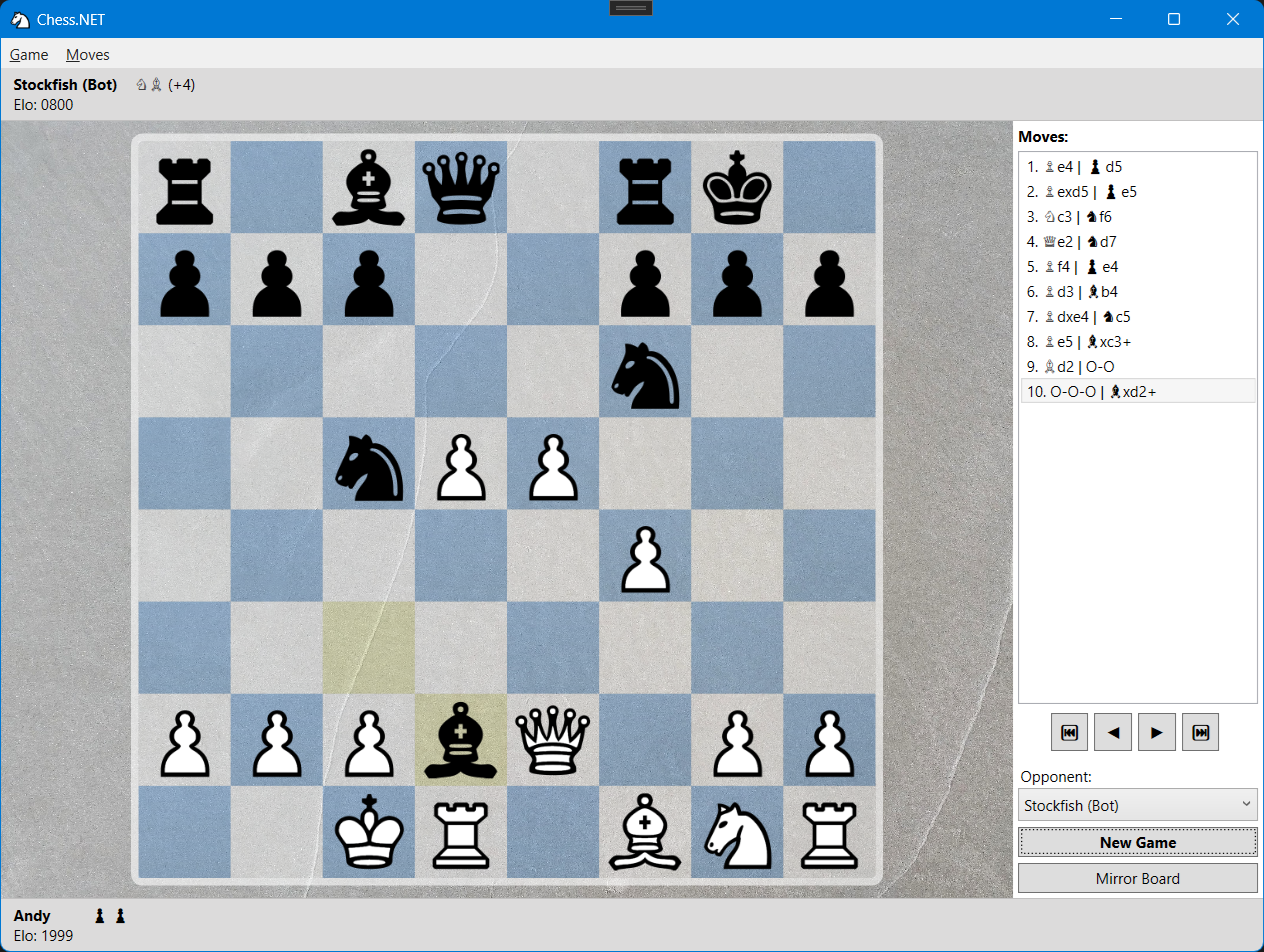
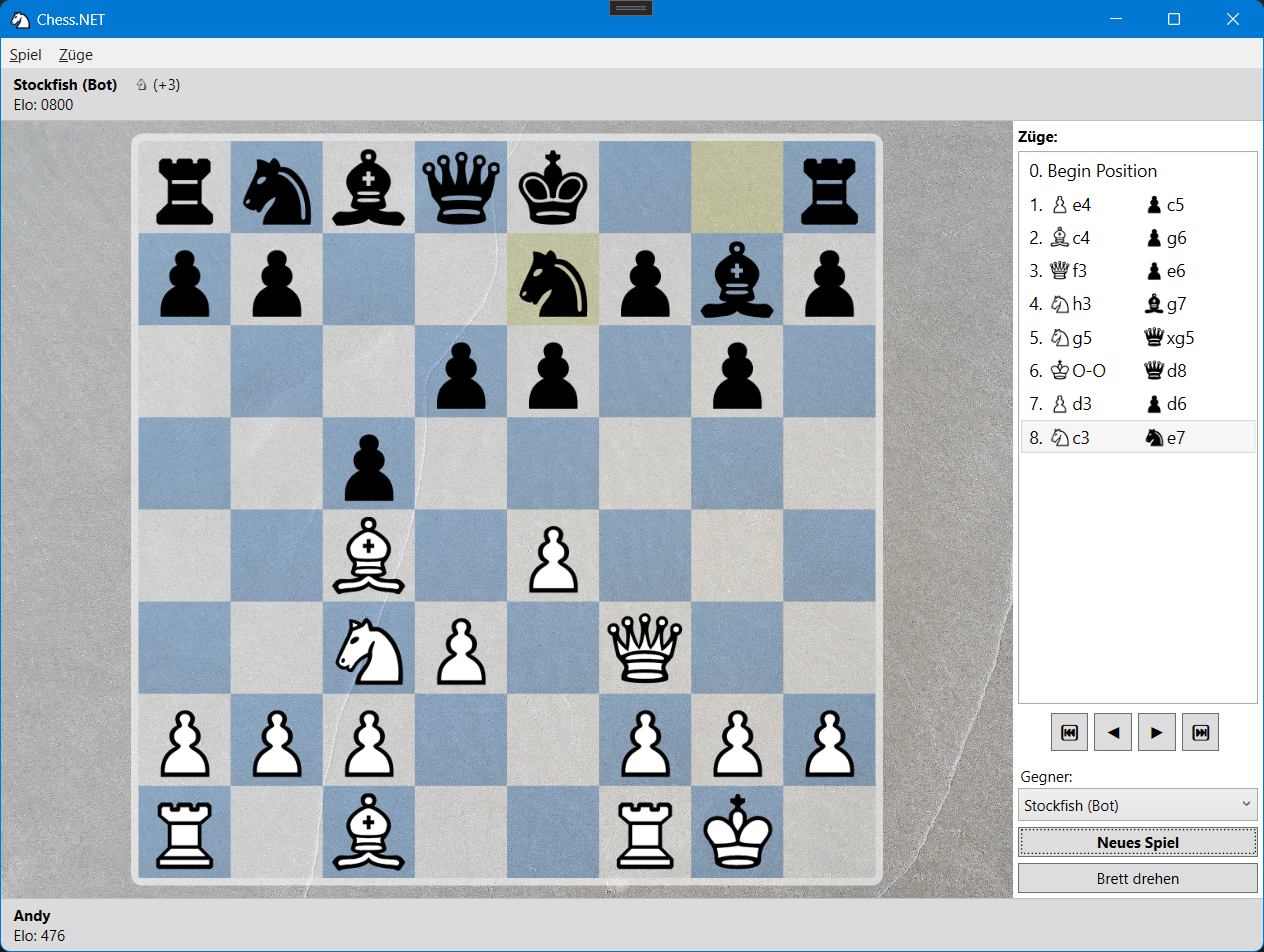
feat: Reworked MoveNotation-ListBox (w/own UserControl)

diff --git a/Chess.NET/Controls/MoveNotationDisplay.xaml b/Chess.NET/Controls/MoveNotationDisplay.xaml
@@ -1,0 +1,37 @@
+<UserControl x:Class="Chess.NET.Controls.MoveNotationDisplay"
+             xmlns="http://schemas.microsoft.com/winfx/2006/xaml/presentation"
+             xmlns:x="http://schemas.microsoft.com/winfx/2006/xaml"
+             xmlns:mc="http://schemas.openxmlformats.org/markup-compatibility/2006" 
+             xmlns:d="http://schemas.microsoft.com/expression/blend/2008" 
+             xmlns:local="clr-namespace:Chess.NET.Controls"
+             mc:Ignorable="d" 
+             d:DesignHeight="50" d:DesignWidth="140">
+    <Grid>
+        <Grid.Resources>
+            <local:MoveToImageConverter x:Key="moveToImageConverter" />
+            <local:MoveToTextConverter x:Key="noveToTextConverter" />
+            <local:MoveCountConverter x:Key="moveCountConverter" />
+        </Grid.Resources>
+        <Grid.ColumnDefinitions>
+            <ColumnDefinition Width="*" />
+            <ColumnDefinition Width="*" />
+        </Grid.ColumnDefinitions>
+
+        <StackPanel x:Name="PanelBegin" Visibility="Collapsed" Background="Transparent" MouseDown="PanelBegin_MouseDown" Grid.Column="0" Grid.ColumnSpan="2" Cursor="Hand" Orientation="Horizontal">
+            <TextBlock Text="0. Begin Position" VerticalAlignment="Center" Margin="2" FontSize="14" />
+        </StackPanel>
+        
+        <StackPanel x:Name="PanelMove1" Background="Transparent" MouseDown="PanelMove1_MouseDown" Cursor="Hand" Orientation="Horizontal" VerticalAlignment="Center">
+            <TextBlock VerticalAlignment="Center" Margin="2" FontSize="14">
+                <Run Text="{Binding Count, Converter={StaticResource moveCountConverter}}" /><Run Text=". " />
+            </TextBlock>
+            <Image Source="{Binding ., Converter={StaticResource moveToImageConverter}}" Width="16" Height="16" RenderOptions.BitmapScalingMode="Fant" />
+            <TextBlock Text="{Binding ., Converter={StaticResource noveToTextConverter}}" VerticalAlignment="Center" Margin="2" FontSize="14" />
+        </StackPanel>
+
+        <StackPanel x:Name="PanelMove2" Background="Transparent" MouseDown="PanelMove2_MouseDown" Grid.Column="1" Cursor="Hand" Margin="5,0,0,0" Orientation="Horizontal" VerticalAlignment="Center">
+            <Image Source="{Binding ., Converter={StaticResource moveToImageConverter}}" Width="16" Height="16" RenderOptions.BitmapScalingMode="Fant" />
+            <TextBlock Text="{Binding ., Converter={StaticResource noveToTextConverter}}" VerticalAlignment="Center" Margin="2" FontSize="14" />
+        </StackPanel>
+    </Grid>
+</UserControl>

diff --git a/Chess.NET/MainWindow.xaml b/Chess.NET/MainWindow.xaml
@@ -88,7 +88,7 @@
                     </Grid.RowDefinitions>
                     
                     <TextBlock Text="{x:Static res:Resources.strMoves}" FontWeight="Bold" />
-                    <ListBox x:Name="ListMoves" MouseDoubleClick="ListMoves_MouseDoubleClick" Margin="0,4,0,0" Grid.Row="1" />
+                    <ListBox x:Name="ListMoves" Margin="0,4,0,0" Grid.Row="1" HorizontalContentAlignment="Stretch"  />
                     
                     <StackPanel Grid.Row="2" Margin="0,5,0,0" Orientation="Horizontal" HorizontalAlignment="Center">
                         <Button x:Name="ButtonJumpToStart" Click="ButtonJumpToStart_Click" Content="⏮" FontWeight="Bold" ToolTip="{x:Static res:Resources.strJumpToStartTooltip}" Padding="3" Width="30" Margin="0,2,5,2" />

diff --git a/Chess.NET/Controls/Dialogs/PuzzleDialog.xaml b/Chess.NET/Controls/Dialogs/PuzzleDialog.xaml
@@ -31,7 +31,7 @@
         <StackPanel x:Name="PanelPuzzleSolved" Visibility="Collapsed" Width="200" Grid.Column="1" Margin="2,10,2,2">
             <TextBlock Text="Puzzle solved!" Foreground="Green" FontWeight="Bold" FontSize="22"  HorizontalAlignment="Center" />
             <TextBlock Text="Moves:" Margin="5,2" />
-            <ListBox Height="200" />
+            <ListBox x:Name="ListMoves" Height="200" HorizontalContentAlignment="Stretch" />
             <Button x:Name="ButtonReplay" Click="ButtonReplay_Click" Content="Replay" Margin="2" FontWeight="Bold" Padding="3" />
         </StackPanel>
 

diff --git a/Chess.NET/Controls/MoveNotationDisplay.xaml.cs b/Chess.NET/Controls/MoveNotationDisplay.xaml.cs
@@ -1,0 +1,142 @@
+using Chess.NET.Model;
+using System.ComponentModel;
+using System.Globalization;
+using System.Windows.Controls;
+using System.Windows.Data;
+
+namespace Chess.NET.Controls
+{
+    /// <summary>
+    /// Interaktionslogik für MoveNotationDisplay.xaml
+    /// </summary>
+    public partial class MoveNotationDisplay : UserControl, INotifyPropertyChanged
+    {
+        public event PropertyChangedEventHandler? PropertyChanged;
+
+        private MoveNotation move1 = null!, move2 = null!;
+
+        public delegate void onJumpToMove(int index);
+        public event onJumpToMove? OnJumpToMove;
+
+        public MoveNotation Move1
+        {
+            get => move1;
+            set
+            {
+                if (value != move1)
+                {
+                    move1 = value;
+                    PanelMove1.DataContext = Move1;
+                    PropertyChanged?.Invoke(this, new PropertyChangedEventArgs(nameof(Move1)));
+                }
+            }
+        }
+
+        public MoveNotation Move2
+        {
+            get => move2;
+            set
+            {
+                if (value != move2)
+                {
+                    move2 = value;
+                    PanelMove2.DataContext = Move2;
+                    PropertyChanged?.Invoke(this, new PropertyChangedEventArgs(nameof(Move2)));
+
+                    if (move2 != null)
+                        PanelMove2.Visibility = System.Windows.Visibility.Visible;
+                }
+            }
+        }
+
+        public MoveNotationDisplay(bool isStart = false)
+        {
+            InitializeComponent();
+            PanelMove1.DataContext = Move1;
+            PanelMove2.DataContext = Move2;
+
+            PanelMove2.Visibility = System.Windows.Visibility.Collapsed;
+            if (isStart)
+            {
+                PanelMove1.Visibility = System.Windows.Visibility.Collapsed;
+                PanelBegin.Visibility = System.Windows.Visibility.Visible;
+            }
+        }
+
+        private void PanelMove1_MouseDown(object sender, System.Windows.Input.MouseButtonEventArgs e)
+        {
+            if (Move1 == null)
+                return;
+
+            if (e.LeftButton == System.Windows.Input.MouseButtonState.Pressed)
+                OnJumpToMove?.Invoke(Move1.Count - 1);
+        }
+
+        private void PanelBegin_MouseDown(object sender, System.Windows.Input.MouseButtonEventArgs e)
+        {
+            if (e.LeftButton == System.Windows.Input.MouseButtonState.Pressed)
+                OnJumpToMove?.Invoke(-1);
+        }
+
+        private void PanelMove2_MouseDown(object sender, System.Windows.Input.MouseButtonEventArgs e)
+        {
+            if (Move2 == null)
+                return;
+
+            if (e.LeftButton == System.Windows.Input.MouseButtonState.Pressed)
+                OnJumpToMove?.Invoke(Move2.Count - 1);
+        }
+    }
+
+    #region Converter
+
+    public class MoveToImageConverter : IValueConverter
+    {
+        public object Convert(object value, Type targetType, object parameter, CultureInfo culture)
+        {
+            if (value is MoveNotation mv)
+                return mv.Piece.Type.ToBitmap(mv.Piece.Color);
+
+            return null!;
+        }
+
+        public object ConvertBack(object value, Type targetType, object parameter, CultureInfo culture)
+        {
+            throw new NotImplementedException();
+        }
+    }
+
+    public class MoveToTextConverter : IValueConverter
+    {
+        public object Convert(object value, Type targetType, object parameter, CultureInfo culture)
+        {
+            if (value is MoveNotation mv)
+                return mv.FormatMove(false, true);
+
+            return string.Empty;
+        }
+
+        public object ConvertBack(object value, Type targetType, object parameter, CultureInfo culture)
+        {
+            throw new NotImplementedException();
+        }
+    }
+
+    public class MoveCountConverter : IValueConverter
+    {
+        public object Convert(object value, Type targetType, object parameter, CultureInfo culture)
+        {
+            if (value is int n)
+                return (n + 1) / 2;
+
+            return 0;
+        }
+
+        public object ConvertBack(object value, Type targetType, object parameter, CultureInfo culture)
+        {
+            throw new NotImplementedException();
+        }
+    }
+
+    #endregion
+}

diff --git a/Chess.NET/MainWindow.xaml.cs b/Chess.NET/MainWindow.xaml.cs
@@ -13,6 +13,7 @@ namespace Chess.NET
     /// </summary>
     public partial class MainWindow : Window
     {
+        private MoveNotationDisplay currentMoveNotationDisplay = null!;
         private bool isMirrored = false;
         private IChessBot? opponent = null;
 
@@ -45,6 +46,11 @@ namespace Chess.NET
             NewGameCommand = new RelayCommand(new Action(StartNewGame));
             MirrorBoardCommand = new RelayCommand(new Action(Chessboard.Mirror));
             DataContext = this;
+
+            // Add start move (always in list)
+            MoveNotationDisplay start = new MoveNotationDisplay(true);
+            start.OnJumpToMove += OnJumpToMove;
+            ListMoves.Items.Add(start);
 
             RefreshPlayerDisplay();
             InitializePuzzleMenu();
@@ -120,22 +126,46 @@ namespace Chess.NET
 
         private void Game_MovedPiece(Model.MoveNotation move)
         {
+            if (currentMoveNotationDisplay == null)
+            {
+                currentMoveNotationDisplay = new MoveNotationDisplay();
+                currentMoveNotationDisplay.OnJumpToMove += OnJumpToMove;
+            }
+
             if (move.Piece.Color == Model.PieceColor.White)
-                ListMoves.Items.Add($"{move.Count}. {move}");
+            {
+                currentMoveNotationDisplay.Move1 = move;
+                ListMoves.Items.Add(currentMoveNotationDisplay);
+            }
             else
-                ListMoves.Items[^1] = $"{ListMoves.Items[^1]} | {move}";
+            {
+                currentMoveNotationDisplay.Move2 = move;
+                currentMoveNotationDisplay = new MoveNotationDisplay();
+                currentMoveNotationDisplay.OnJumpToMove += OnJumpToMove;
+            }
 
             ListMoves.SelectedIndex = ListMoves.Items.Count - 1;
-
             RefreshPlayerDisplay();
         }
 
+        private async void OnJumpToMove(int index)
+        {
+            if (index == -1)
+            {
+                await Chessboard.JumpToStartAsync();
+                return;
+            }
+
+            await Chessboard.ShowMoveAsync(index);
+        }
 
         #endregion
 
         private void StartNewGame()
         {
-            ListMoves.Items.Clear();
+            // First item should always stay in list
+            for (int i = ListMoves.Items.Count - 1; i >= 1; i--)
+                ListMoves.Items.RemoveAt(i);
 
             if (CmbOpponent.SelectedIndex == 0)
             {
@@ -204,18 +234,7 @@ namespace Chess.NET
 
         private async void ButtonJumpToLastMove_Click(object sender, RoutedEventArgs e)
         {
-         await   Chessboard.ShowLastMoveAsync();
-        }
-
-        private async void ListMoves_MouseDoubleClick(object sender, MouseButtonEventArgs e)
-        {
-            int n = ListMoves.SelectedIndex;
-
-            int firstMove = 2 * n - 1;
-            int secondMove = 2 * n;
-
-            // We are currently not able to differentae which one, so we always choose the first one
-            await Chessboard.ShowMoveAsync(firstMove);
+            await Chessboard.ShowLastMoveAsync();
         }
 
         private void RefreshPlayerDisplay()

diff --git a/Chess.NET/Controls/Dialogs/PuzzleDialog.xaml.cs b/Chess.NET/Controls/Dialogs/PuzzleDialog.xaml.cs
@@ -3,6 +3,7 @@ using Chess.NET.Model;
 using System.Threading.Tasks;
 using System.Windows;
 using System.Windows.Input;
+using static Chess.NET.Controls.MoveNotationDisplay;
 
 namespace Chess.NET.Controls.Dialogs
 {
@@ -20,11 +21,11 @@ namespace Chess.NET.Controls.Dialogs
 
         #region Commands
 
-        public ICommand MoveLeftCommand { get; }
+        public ICommand MoveLeftCommand { get; } = null!;
 
-        public ICommand MoveRightCommand { get; }
+        public ICommand MoveRightCommand { get; } = null!;
 
-        public ICommand MirrorBoardCommand { get; }
+        public ICommand MirrorBoardCommand { get; } = null!;
 
         #endregion
 
@@ -86,9 +87,34 @@ namespace Chess.NET.Controls.Dialogs
 
             if (currentPuzzleMove >= currentPuzzle!.Moves.Count)
             {
-                // TODO Puzzle successfully done! :)
+                // Puzzle successfully done! :)
                 Sound.Play(Sound.SoundType.PuzzleSolved);
                 PanelPuzzleSolved.Visibility = Visibility.Visible;
+
+                // Render moves
+                ListMoves.Items.Clear();
+
+                MoveNotationDisplay start = new MoveNotationDisplay(true);
+                start.OnJumpToMove += Display_OnJumpToMove;
+                ListMoves.Items.Add(start);
+
+                MoveNotationDisplay display = new MoveNotationDisplay();
+                display.OnJumpToMove += Display_OnJumpToMove;
+                foreach (var move in Chessboard.Game.Moves)
+                {
+                    if (display.Move1 == null)
+                        display.Move1 = move;
+                    else if (display.Move2 == null)
+                    {
+                        display.Move2 = move;
+                        ListMoves.Items.Add(display);
+                        display = new MoveNotationDisplay();
+                        display.OnJumpToMove += Display_OnJumpToMove;
+                    }
+                }
+
+                if (display.Move2 == null)
+                    ListMoves.Items.Add(display);
 
                 Chessboard.EnableNavigation();
                 return;
@@ -101,6 +127,17 @@ namespace Chess.NET.Controls.Dialogs
             await Chessboard.Game.MoveAsync(pendingPuzzleMove);
             Chessboard.RenderChessBoard(Chessboard.Game.Board);
             currentPuzzleMove++;
+        }
+        
+        private async void Display_OnJumpToMove(int index)
+        {
+            if (index == -1)
+            {
+                await Chessboard.JumpToStartAsync();
+                return;
+            }
+
+            await Chessboard.ShowMoveAsync(index);
         }
 
         private async Task HandleWrongMoveAsync()

diff --git a/Chess.NET/Model/MoveNotation.cs b/Chess.NET/Model/MoveNotation.cs
@@ -36,7 +36,7 @@
             return $"{From}{To}".ToLower();
         }
 
-        public string FormatMove(bool useEmojis)
+        public string FormatMove(bool useEmojis, bool noPieceChar = false)
         {
             // 1) Rochade
             if (IsCastleKingSide)
@@ -57,9 +57,13 @@
                 _ => ""
             };
 
-            // oder emoji:
+            // or Emoji:
             if (useEmojis)
                 piece = Helper.ToEmoji(Piece);
+
+            // or nothing
+            if (noPieceChar)
+                piece = string.Empty;
 
             // 3) Bauernschlag braucht das File
             string pawnFile = Piece.Type == PieceType.Pawn && IsCapture ? From.ToString()[..1] : string.Empty;

diff --git a/Chess.NET/Model/Game.cs b/Chess.NET/Model/Game.cs
@@ -489,7 +489,7 @@ namespace Chess.NET.Model
             if (Moves.Count > 0)
             {
                 move.Count = Moves[^1].Count;
-                if (piece.Color == PieceColor.White)
+                //if (piece.Color == PieceColor.White)
                     move.Count++;
             }
 
